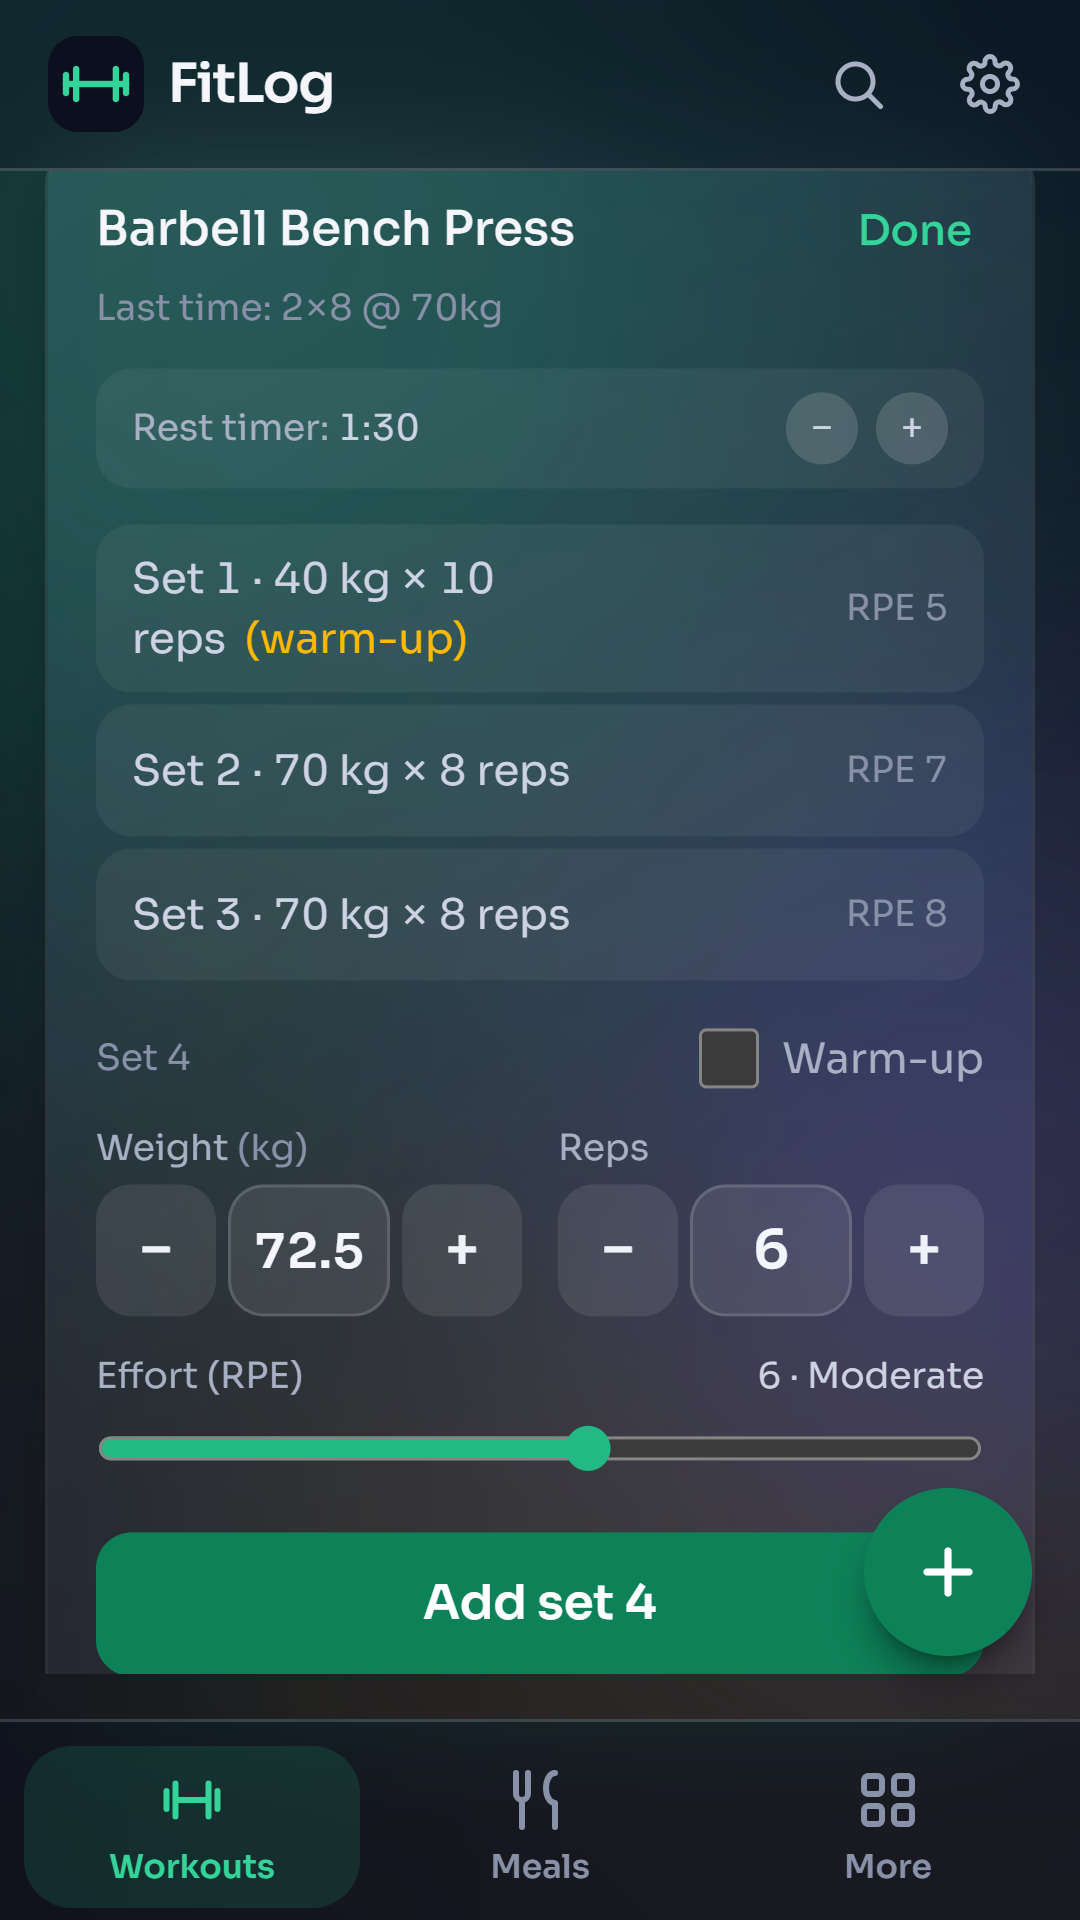
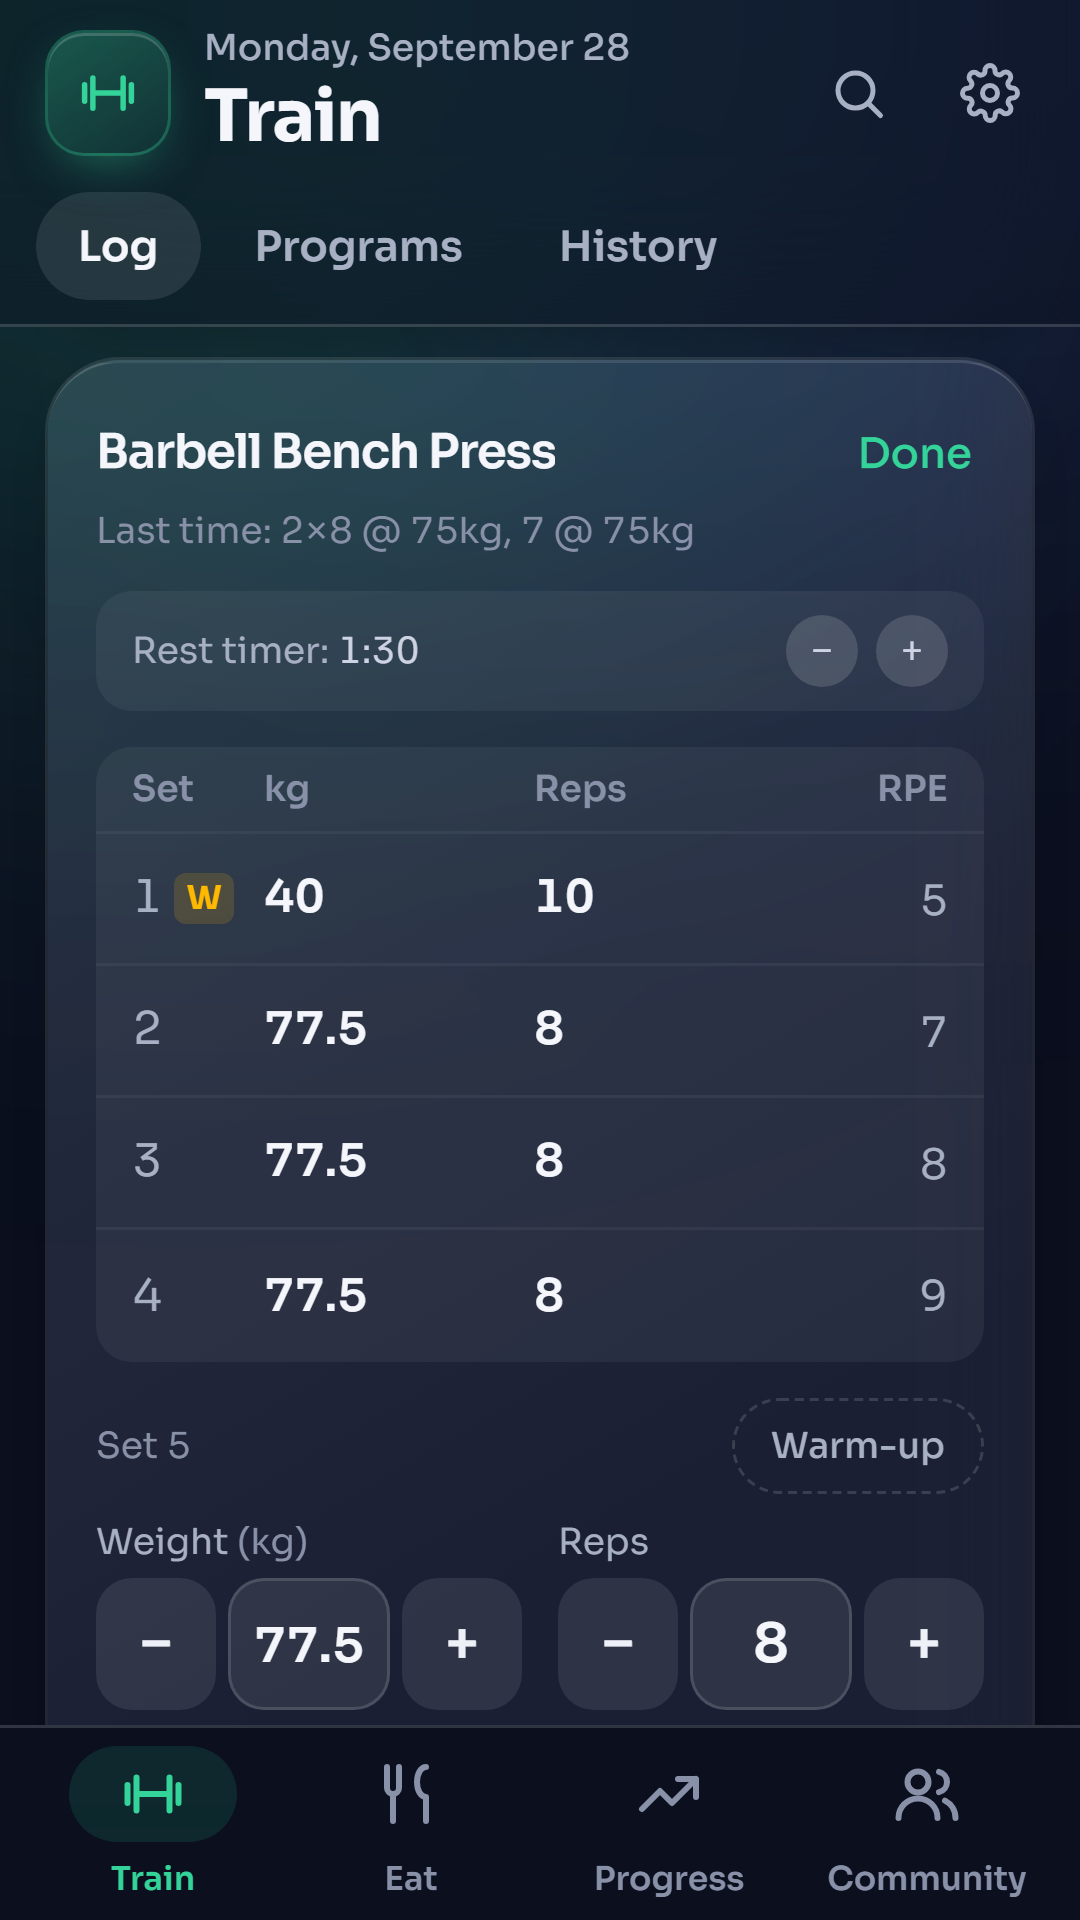
Reshoot the Play screenshots for the new navigation; refresh the listing
All six phone screenshots are retaken from the current build (Train / Eat /
Progress / Community) with a demo account served from memory, so no request
reached Supabase. The More menu shot is gone with the More menu; Progress (the
weight chart) replaces it, in the store set and as the PWA install-sheet
screenshot. The feature graphic keeps its layout with the new screens 1 and 4.

Store description: drop the customizable bottom bar (removed in the navigation
rework) and the Buy Me a Coffee sentence. README notes the PWABuilder settings
for the Play build: start URL /?source=play, target API 36, no AD_ID.

diff --git a/vite.config.ts b/vite.config.ts
@@ -7,12 +7,12 @@ import { VitePWA } from 'vite-plugin-pwa'
 
 // Captured from the real app at 1080x1920 (see store-listing/README.md) and shown in the richer
 // Android install sheet. Order = display order.
-const STORE_SCREENSHOTS = ['workouts', 'set-logging', 'meals', 'more'] as const
+const STORE_SCREENSHOTS = ['workouts', 'set-logging', 'meals', 'progress'] as const
 const SCREENSHOT_LABELS: Record<(typeof STORE_SCREENSHOTS)[number], string> = {
   workouts: "Today's workout at a glance",
   'set-logging': 'Log sets fast with steppers and a rest timer',
   meals: 'Meals, macros, and water in one place',
-  more: 'Every section one tap away',
+  progress: 'Body weight over time, next to your goal',
 }
 
 // https://vite.dev/config/

diff --git a/store-listing/README.md b/store-listing/README.md
@@ -17,7 +17,7 @@ FitLog: Workout & Meal Tracker
 Free workout, meal & macro tracker. No ads, no paywalls, no premium tier.
 ```
 
-**Full description** (4,000 max, ~3,114 used)
+**Full description** (4,000 max, ~2,884 used)
 
 ```
 FitLog is a workout log, meal and macro tracker, and fasting timer in one app. It's completely free: no ads, no paywalls, and no premium tier. Every feature is available to everyone.
@@ -54,7 +54,6 @@ REACH YOUR GOALS
 
 MADE TO BE QUICK
 • A + button to log a set, add a meal, or start a fast from anywhere
-• Customizable bottom bar with the sections you use most
 • Works offline and syncs when you're back online
 • Light and dark themes, five accent colors, and metric or imperial units
 • Export all of your data at any time
@@ -64,8 +63,6 @@ Your logs are visible only to you, unless you choose to share a preset, recipe, 
 
 WHY IT'S FREE
 FitLog started as a personal project and grew into something worth sharing. There are no premium plans and there never will be, because nobody should be locked out of a feature.
-
-If FitLog has been useful to you, you can help cover the cost of running it with a coffee at buymeacoffee.com/department.of.one. It's optional and doesn't unlock anything.
 
 FitLog is a tracking tool, not medical advice. Talk to a professional before starting a new diet, fasting routine, or exercise program.
 ```
@@ -98,26 +95,43 @@ After the first upload, write the app-link file with it:
 node scripts/set-assetlinks.mjs com.departmentofone.fitlog <upload-key SHA-256> <Play app-signing SHA-256>
 ```
 
+### Other PWABuilder settings
+
+- **Start URL:** `/?source=play`. The app hides the Buy Me a Coffee link when it sees this marker
+  or Chrome's `android-app://` referrer (`src/lib/platform.ts`). The marker covers phones where the
+  app opens in something other than Chrome. Play's Payments policy doesn't allow a link to an
+  outside payment page inside the app.
+- **Target SDK:** API 36 (Android 16) or higher. Play has required it for new apps since
+  31 Aug 2026.
+- **Permissions:** the generated Android manifest must not contain
+  `com.google.android.gms.permission.AD_ID` (see the Advertising ID answer in
+  `PLAY_CONSOLE_ANSWERS.md`).
+
 ## Graphics
 
 | Play asset | File | Spec check |
 |---|---|---|
 | App icon | `icon-512.png` | 512×512, 32-bit PNG, full square (Play rounds the corners) |
 | Feature graphic | `feature-graphic-1024x500.png` | 1024×500, 24-bit PNG, no alpha |
-| Phone screenshots (6) | `phone-screenshots/1-workouts.png` … `6-more.png` | 1080×1920 (9:16), 24-bit PNG, ≤ 8 MB each |
+| Phone screenshots (6) | `phone-screenshots/1-workouts.png` … `6-progress.png` | 1080×1920 (9:16), 24-bit PNG, ≤ 8 MB each |
 
 Upload the screenshots in file-name order (1 Workouts, 2 Set logging, 3 Meals, 4 Community,
-5 Diets, 6 More menu). Workouts, Set logging, Meals and More are also copied to
-`public/screenshots/` for the PWA manifest's install sheet (same file names as before).
+5 Diets, 6 Progress). Workouts, Set logging, Meals and Progress are also copied to
+`public/screenshots/` for the PWA manifest's install sheet. Progress replaced the old More menu
+shot, since the More menu no longer exists.
 
 ### How they were made
-Captured on 24 Sep 2026 from the real app running locally with a demo account: realistic workout
-and meal data, real foods and exercises from the database, and the official Community diets.
-Nothing personal is shown, and writes were blocked so no real data changed. 360×640 viewport at 3×
-scale (the More menu at 405×720 at 2.67× so the whole menu fits), Sora embedded, alpha flattened
-with sharp. The feature graphic (logo, tagline and two straight phone screens, no tilt) was
-rendered the same way from screenshots 1 and 4. The previous feature graphic was a broken capture:
-tilted, cropped, and with a stray scrollbar.
+Captured on 28 Sep 2026 from the current build (the Train / Eat / Progress / Community layout)
+running locally in headless Chrome at 360×640 and 3× scale, then saved as 24-bit PNGs with no alpha.
+The app was signed in to a made-up demo account whose data was served from memory: six weeks of
+Push/Pull/Legs training with a workout in progress, meals and water for today, a weight trend,
+and the Mediterranean diet followed. Exercises, foods and the official Community diets, meal plans
+and meals come from the seed SQL in `supabase/`, so the numbers match the real library (206 foods
+on Mediterranean, 20 official Community items). No request reached Supabase and nothing personal
+is shown.
+
+The feature graphic has the same logo, tagline, chips and phone frames as before, with the new
+screenshots 1 and 4 in the two phones.
 
 ### Nice to have (not required)
 - 7-inch and 10-inch tablet screenshots (only if you want the listing to look good on tablets).
